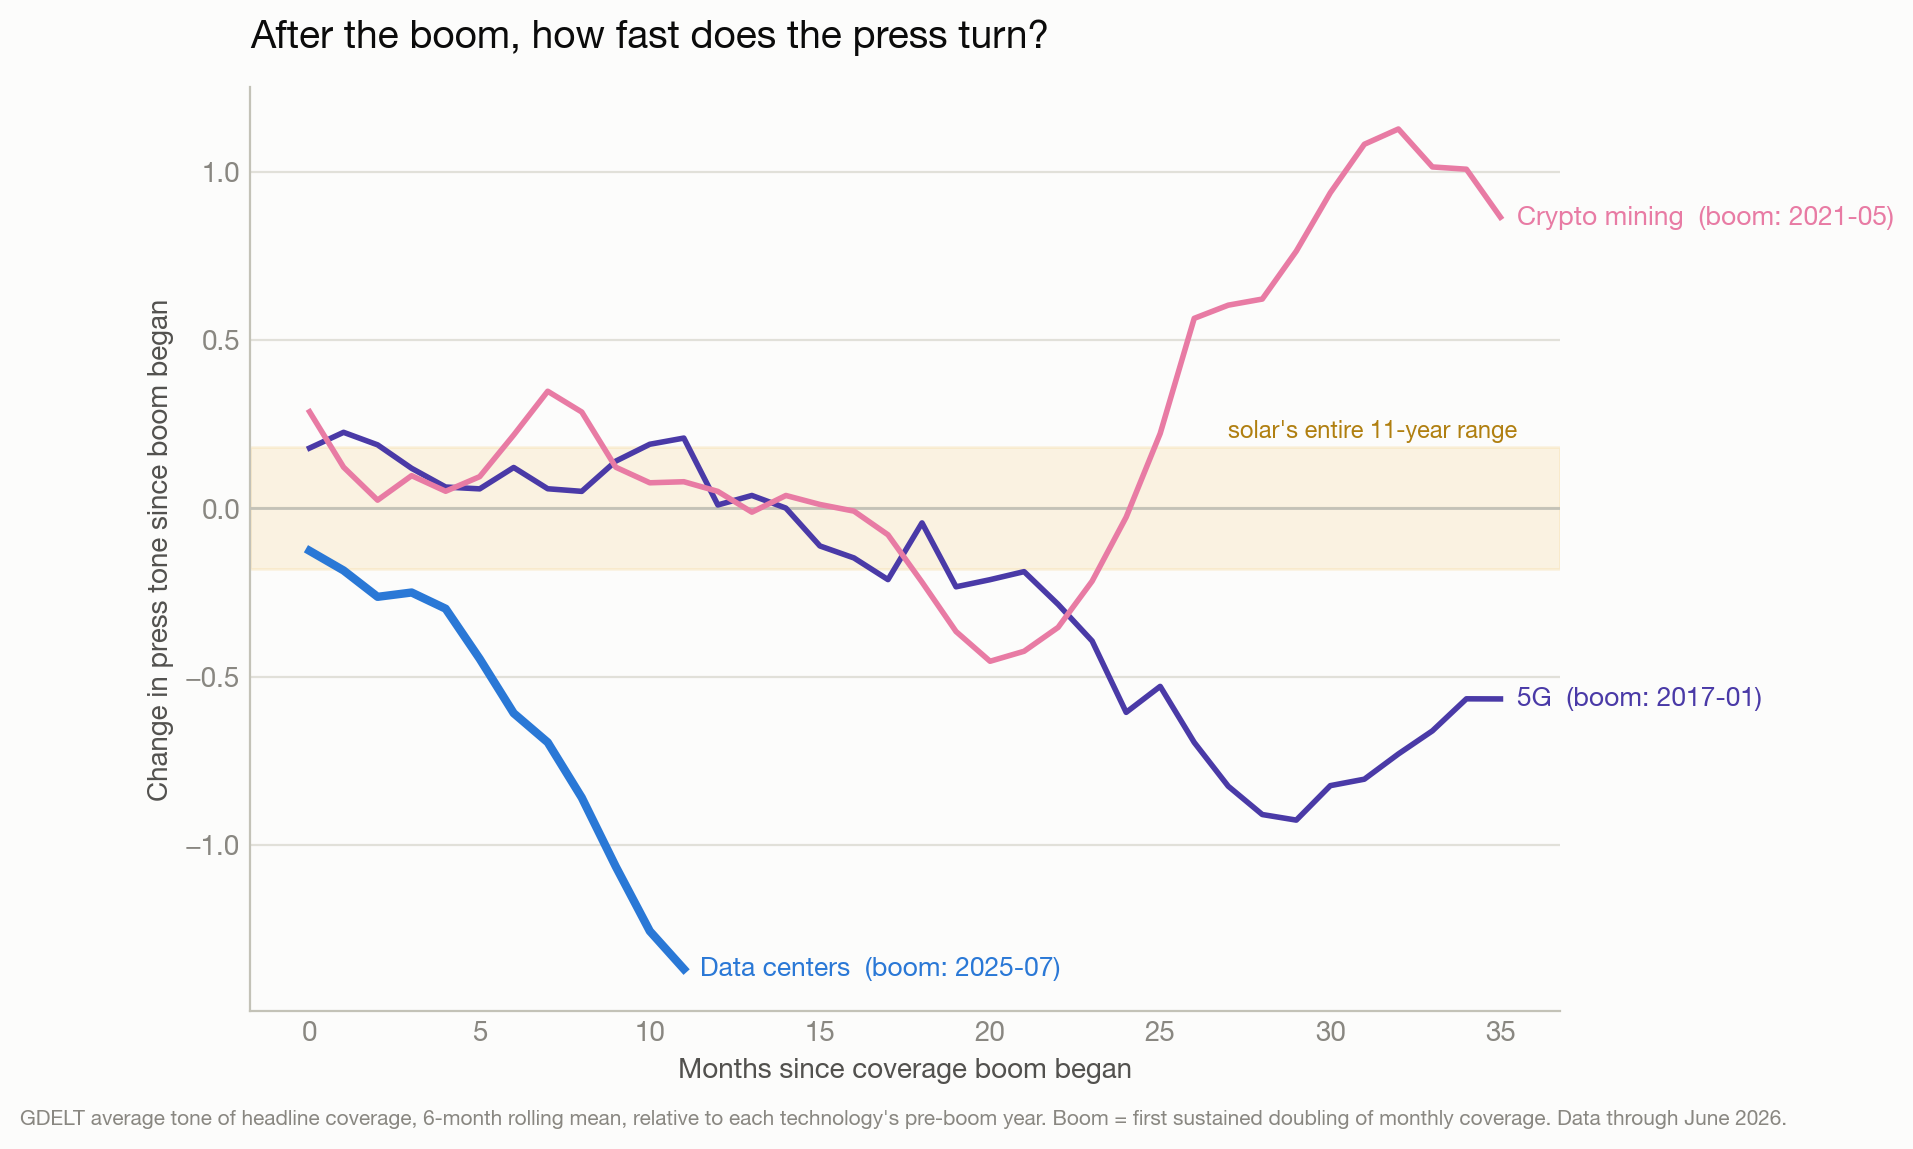
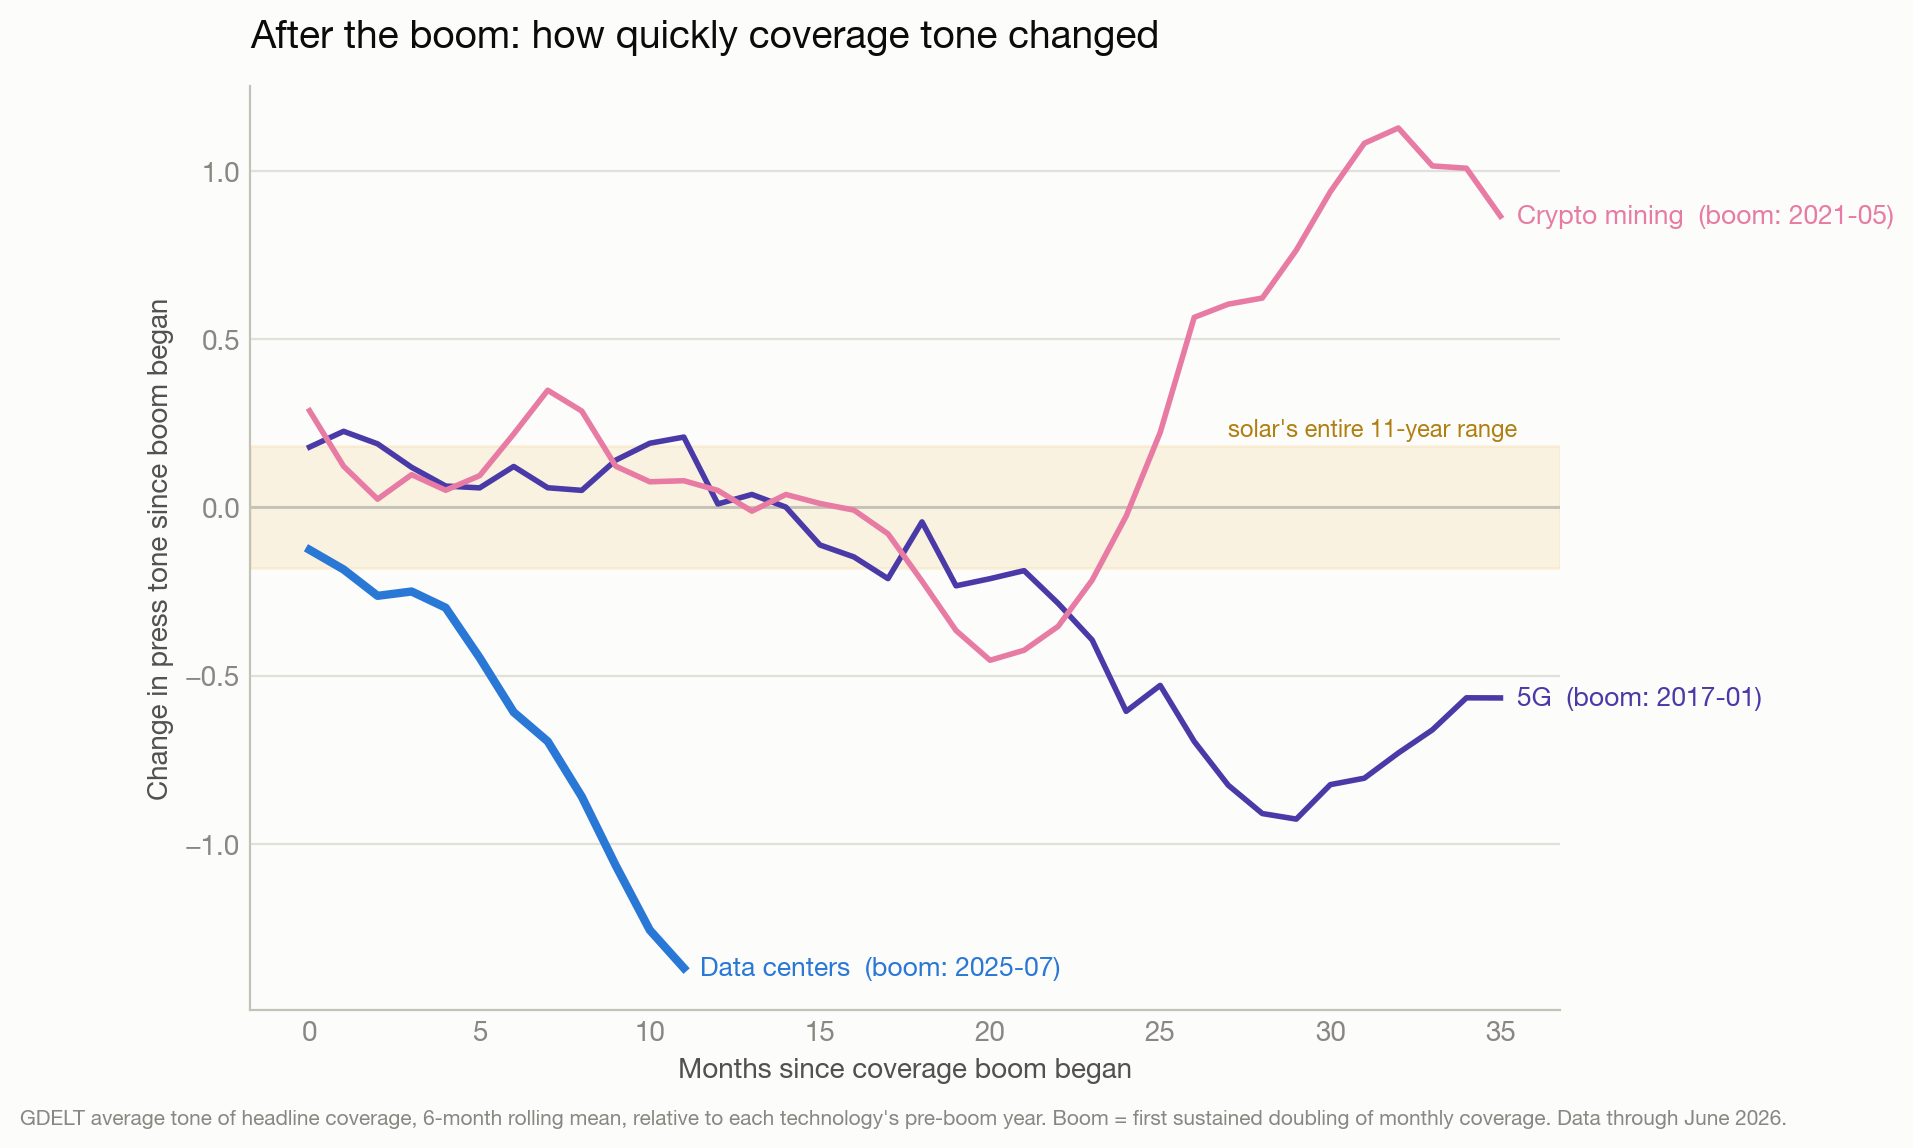
Neutral framing on comparison chart titles
Coverage tone language instead of press-as-actor phrasing.

diff --git a/scripts/comparison_charts.py b/scripts/comparison_charts.py
@@ -96,7 +96,7 @@ def chart_aligned(vol, tone):
     style(ax)
     ax.set_xlabel("Months since coverage boom began", fontsize=10)
     ax.set_ylabel("Change in press tone since boom began", fontsize=10)
-    ax.set_title("After the boom, how fast does the press turn?",
+    ax.set_title("After the boom: how quickly coverage tone changed",
                  fontsize=14, color=INK, loc="left", pad=14)
     fig.text(0.01, 0.015,
              "GDELT average tone of headline coverage, 6-month rolling mean, "
@@ -157,9 +157,9 @@ def chart_time_to_flip(vol, tone):
                     fontweight="bold" if hl else "normal")
     ax.set_yticks([])
     style(ax)
-    ax.set_xlabel("Months from goodwill peak to sustained net-negative press",
+    ax.set_xlabel("Months from peak coverage tone to sustained net-negative tone",
                   fontsize=10)
-    ax.set_title("How long each technology held onto its good press",
+    ax.set_title("How long each technology sustained net-positive coverage",
                  fontsize=14, color=INK, loc="left", pad=14)
     fig.text(0.01, 0.015,
              "GDELT tone of headline coverage, 3-month smoothed. Goodwill peak = "
